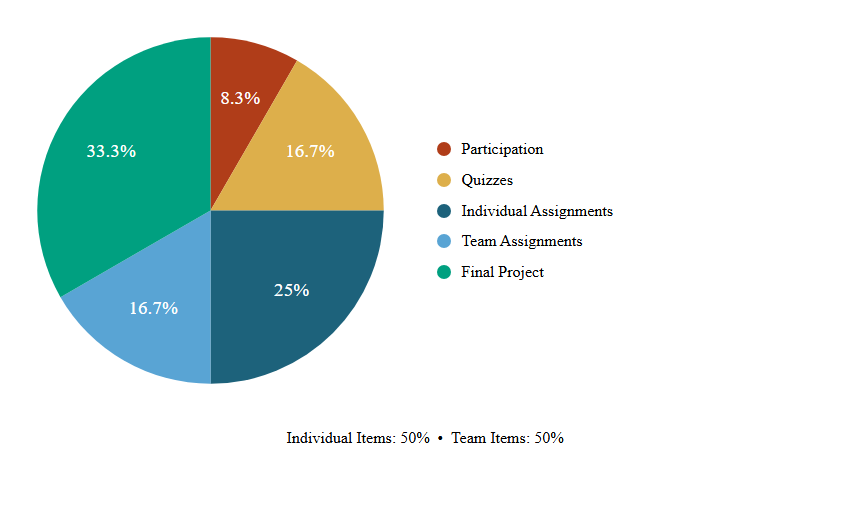
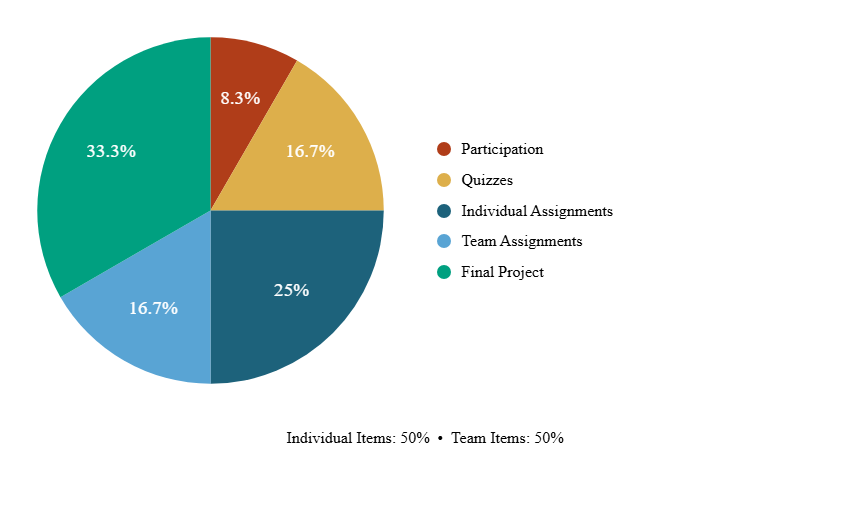
charts

diff --git a/Graphic Design/class-grading-breakdown-inside-labels.html b/Graphic Design/class-grading-breakdown-inside-labels.html
@@ -1,0 +1,147 @@
+<div id="vanderbilt-grading-inside-chart">
+  <svg class="vgi-chart" viewBox="0 0 560 520" role="img" aria-labelledby="vgi-title vgi-desc">
+    <title id="vgi-title">Class grading percentage breakdown with labels inside the pie</title>
+    <desc id="vgi-desc">Participation is 8.3 percent, Quizzes are 16.7 percent, Individual Assignments are 25 percent, Team Assignments are 16.7 percent, and Final Project is 33.3 percent. Individual Items and Team Items each account for 50 percent.</desc>
+    <g id="vgi-slices"></g>
+    <g id="vgi-labels"></g>
+    <text x="280" y="500" text-anchor="middle" class="vgi-summary">Individual Items: 50%  •  Team Items: 50%</text>
+  </svg>
+</div>
+
+<style>
+  #vanderbilt-grading-inside-chart {
+    --class-blue: #1d627b;
+    --class-gold: #ddaf4b;
+    --class-red: #b03d19;
+    --class-sky: #59a4d4;
+    --class-teal: #00a080;
+    --class-white: #ffffff;
+    color: var(--foreground);
+    width: 100%;
+  }
+  #vanderbilt-grading-inside-chart .vgi-chart {
+    display: block;
+    width: 100%;
+    height: auto;
+    max-height: 560px;
+  }
+  #vanderbilt-grading-inside-chart .vgi-slice {
+    stroke: var(--background);
+    stroke-width: 3;
+  }
+  #vanderbilt-grading-inside-chart .vgi-name,
+  #vanderbilt-grading-inside-chart .vgi-pct,
+  #vanderbilt-grading-inside-chart .vgi-outside-name {
+    fill: var(--class-white);
+    font-weight: 500;
+    text-anchor: middle;
+    dominant-baseline: middle;
+    pointer-events: none;
+  }
+  #vanderbilt-grading-inside-chart .vgi-name { font-size: 12px; }
+  #vanderbilt-grading-inside-chart .vgi-pct { font-size: 16px; }
+  #vanderbilt-grading-inside-chart .vgi-outside-name {
+    fill: var(--foreground);
+    font-size: 12px;
+    text-anchor: start;
+  }
+  #vanderbilt-grading-inside-chart .vgi-leader {
+    fill: none;
+    stroke: var(--foreground);
+    stroke-width: 1.5;
+  }
+  #vanderbilt-grading-inside-chart .vgi-summary {
+    fill: var(--foreground);
+    font-size: 14px;
+  }
+</style>
+
+<script>
+(() => {
+  const root = document.getElementById('vanderbilt-grading-inside-chart');
+  const data = [
+    ['Participation', 25, 'var(--class-red)'],
+    ['Quizzes', 50, 'var(--class-gold)'],
+    ['Individual Assignments', 75, 'var(--class-blue)'],
+    ['Team Assignments', 50, 'var(--class-sky)'],
+    ['Final Project', 100, 'var(--class-teal)']
+  ];
+  const total = data.reduce((sum, item) => sum + item[1], 0);
+  const slices = root.querySelector('#vgi-slices');
+  const labels = root.querySelector('#vgi-labels');
+  const cx = 280;
+  const cy = 238;
+  const radius = 218;
+  const polar = (angle, r) => [cx + r * Math.cos(angle), cy + r * Math.sin(angle)];
+  const formatPct = value => Number.isInteger(value) ? `${value}%` : `${value.toFixed(1)}%`;
+  let angle = -Math.PI / 2;
+
+  data.forEach(([name, points, color]) => {
+    const pct = points / total * 100;
+    const next = angle + (points / total) * Math.PI * 2;
+    const middle = (angle + next) / 2;
+    const [x1, y1] = polar(angle, radius);
+    const [x2, y2] = polar(next, radius);
+    const large = next - angle > Math.PI ? 1 : 0;
+
+    const path = document.createElementNS('http://www.w3.org/2000/svg', 'path');
+    path.setAttribute('d', `M ${cx} ${cy} L ${x1} ${y1} A ${radius} ${radius} 0 ${large} 1 ${x2} ${y2} Z`);
+    path.setAttribute('fill', color);
+    path.setAttribute('class', 'vgi-slice');
+    path.setAttribute('tabindex', '0');
+    path.setAttribute('data-tooltip', `${name}: ${formatPct(pct)}`);
+    slices.appendChild(path);
+
+    const labelRadius = 138;
+    const [lx, ly] = polar(middle, labelRadius);
+    let rotation = middle * 180 / Math.PI;
+    if (rotation > 90) rotation -= 180;
+    if (rotation < -90) rotation += 180;
+
+    if (pct < 10) {
+      const [px, py] = polar(middle, 145);
+      const [ex, ey] = polar(middle, 228);
+      const lineEndX = ex + 28;
+      const leader = document.createElementNS('http://www.w3.org/2000/svg', 'path');
+      leader.setAttribute('d', `M ${px} ${py} L ${ex} ${ey} L ${lineEndX} ${ey}`);
+      leader.setAttribute('class', 'vgi-leader');
+      labels.appendChild(leader);
+
+      const outside = document.createElementNS('http://www.w3.org/2000/svg', 'text');
+      outside.setAttribute('x', lineEndX + 6);
+      outside.setAttribute('y', ey + 4);
+      outside.setAttribute('class', 'vgi-outside-name');
+      outside.textContent = name;
+      labels.appendChild(outside);
+
+      const [pctX, pctY] = polar(middle, 112);
+      const pctOnly = document.createElementNS('http://www.w3.org/2000/svg', 'text');
+      pctOnly.setAttribute('x', pctX);
+      pctOnly.setAttribute('y', pctY);
+      pctOnly.setAttribute('class', 'vgi-pct');
+      pctOnly.textContent = formatPct(pct);
+      labels.appendChild(pctOnly);
+      angle = next;
+      return;
+    }
+
+    const group = document.createElementNS('http://www.w3.org/2000/svg', 'g');
+    group.setAttribute('transform', `translate(${lx} ${ly}) rotate(${rotation})`);
+
+    const nameText = document.createElementNS('http://www.w3.org/2000/svg', 'text');
+    nameText.setAttribute('class', 'vgi-name');
+    nameText.setAttribute('y', '-10');
+    nameText.textContent = name;
+    group.appendChild(nameText);
+
+    const pctText = document.createElementNS('http://www.w3.org/2000/svg', 'text');
+    pctText.setAttribute('class', 'vgi-pct');
+    pctText.setAttribute('y', '11');
+    pctText.textContent = formatPct(pct);
+    group.appendChild(pctText);
+
+    labels.appendChild(group);
+    angle = next;
+  });
+})();
+</script>
